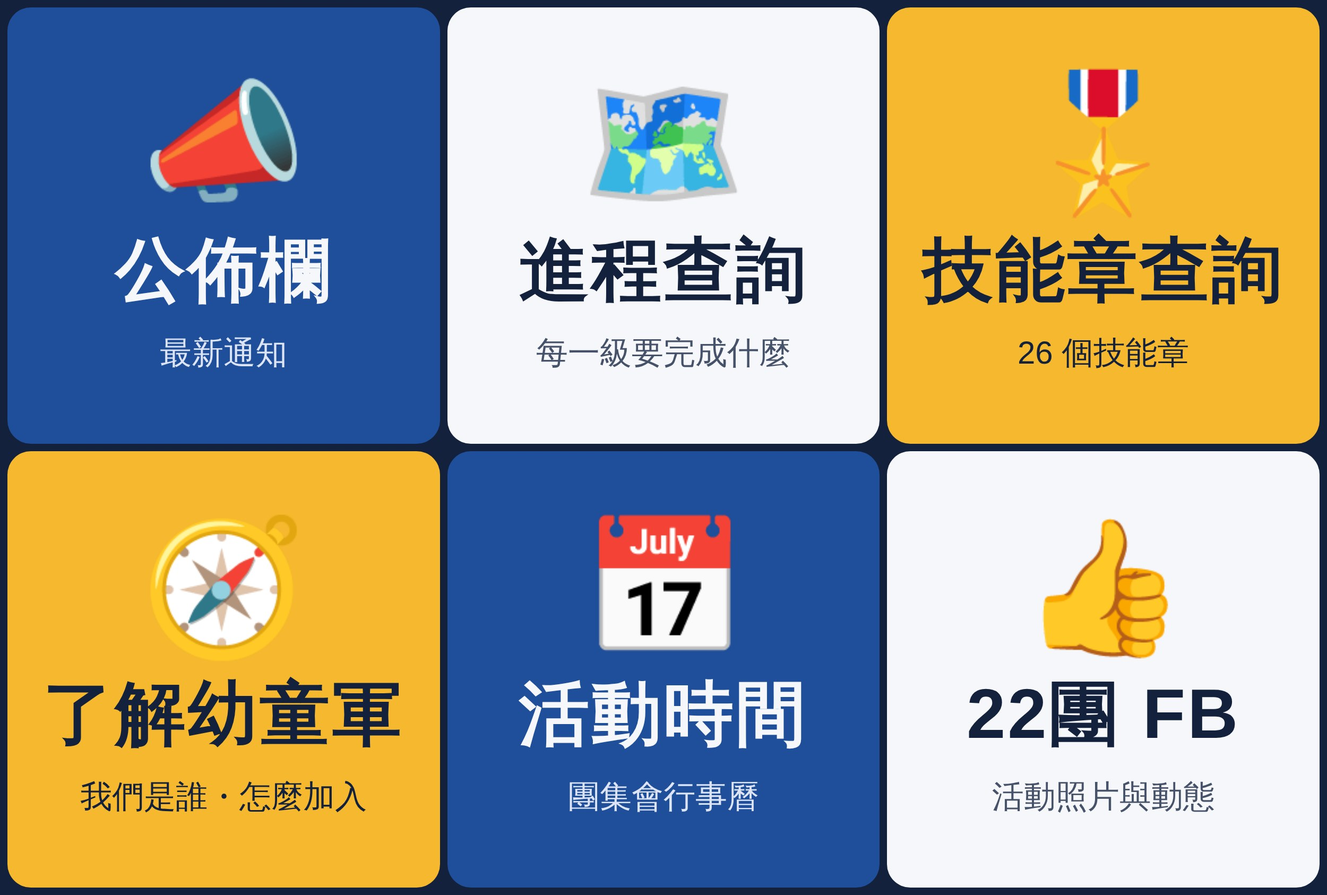
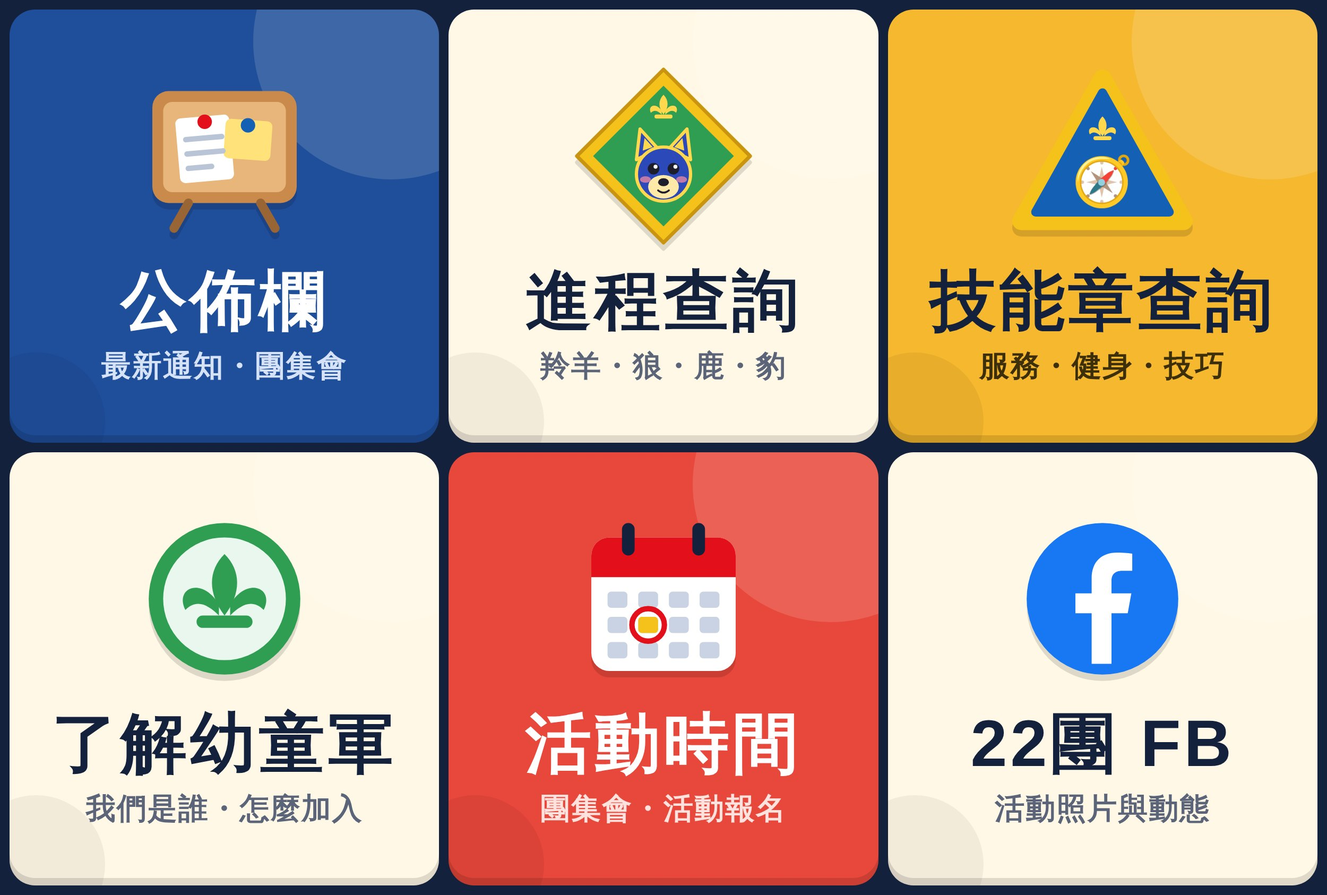
LINE 圖文選單改版與一鍵安裝（SPEC 附錄第 60 點）
- tools/richmenu.js 產生新圖 docs/line-richmenu.jpg（網站章圖＋自繪圖示）
- gas/RichMenu.js：試算表選單「📱 安裝 LINE 圖文選單」建立選單、上傳圖、設為預設、刪舊的
- webUrl_() 預設改回 GitHub 正式網站
- 文件：SPEC、SETUP 第 12 節、MANUAL、TESTING、CLAUDE、CHANGELOG

Claude-Session: https://claude.ai/code/session_019eugoUL2MKJMJs2XhhZPBG

diff --git a/tools/richmenu.js b/tools/richmenu.js
@@ -1,0 +1,71 @@
+/**
+ * 產生 LINE 圖文選單圖片 docs/line-richmenu.jpg（2500×1686，三欄兩列六格，SPEC 附錄第 49、60 點）
+ * 章的圖直接取自 web/index.html（BADGES、triBadge），和網站長得一樣。
+ * 用法：node tools/richmenu.js [輸出路徑]
+ * 六格的位置要和 gas/RichMenu.js 的 RICH_MENU_AREAS 一致（左上 → 右上 → 左下 → 右下）。
+ */
+const fs = require('fs');
+const path = require('path');
+const vm = require('vm');
+const { chromium } = require('playwright');
+
+const root = path.join(__dirname, '..');
+const out = process.argv[2] || path.join(root, 'docs/line-richmenu.jpg');
+
+// 從網站取出章的 SVG 產生器
+const web = fs.readFileSync(path.join(root, 'web/index.html'), 'utf8');
+const a = web.indexOf('const FLEUR');
+const b = web.indexOf('\n', web.indexOf('const triBadge'));
+const ctx = {};
+vm.createContext(ctx);
+vm.runInContext(web.slice(a, b).replace(/^const /gm, 'var ') , ctx);
+const svgSize = (s) => s.replace('<svg ', '<svg width="100%" height="100%" ');
+
+// 自己畫的圖示（100×100），不用表情符號，各平台看起來都一樣
+const ICON = {
+  notice: `<svg viewBox="0 0 100 100" width="100%" height="100%"><rect x="10" y="14" width="80" height="62" rx="9" fill="#C98A4B"/><rect x="16" y="20" width="68" height="50" rx="5" fill="#E8B57A"/>
+    <rect x="24" y="28" width="30" height="36" rx="3" fill="#fff" transform="rotate(-5 39 46)"/><rect x="50" y="30" width="26" height="22" rx="3" fill="#FFE27A" transform="rotate(4 63 41)"/>
+    <g stroke="#B9C4D6" stroke-width="3" stroke-linecap="round" transform="rotate(-5 39 46)"><path d="M29 40H49M29 48H49M29 56H42"/></g>
+    <circle cx="39" cy="31" r="4" fill="#E3101B" /><circle cx="63" cy="33" r="4" fill="#1360B5"/>
+    <path d="M30 76L22 90M70 76L78 90" stroke="#9A6534" stroke-width="5" stroke-linecap="round"/></svg>`,
+  scout: `<svg viewBox="0 0 100 100" width="100%" height="100%"><circle cx="50" cy="50" r="42" fill="#2F9E52"/><circle cx="50" cy="50" r="34" fill="#E9F7EE"/>
+    <g transform="translate(50 50) scale(3.1)" fill="#2F9E52"><path d="M0-8C3-5 3-1 0 3C-3-1-3-5 0-8Z"/><path d="M-1 1C-4-4-9-2-7 2C-5 0-3 1-1 3Z"/><path d="M1 1C4-4 9-2 7 2C5 0 3 1 1 3Z"/><rect x="-5" y="3" width="10" height="2.2" rx="1.1"/></g></svg>`,
+  calendar: `<svg viewBox="0 0 100 100" width="100%" height="100%"><rect x="10" y="16" width="80" height="74" rx="10" fill="#fff"/><path d="M10 26a10 10 0 0 1 10-10h60a10 10 0 0 1 10 10v12H10Z" fill="#E3101B"/>
+    <rect x="27" y="8" width="7" height="18" rx="3.5" fill="#14213D"/><rect x="66" y="8" width="7" height="18" rx="3.5" fill="#14213D"/>
+    <g fill="#C9D3E3">${[0, 1, 2, 3].map((c) => [0, 1, 2].map((r) => `<rect x="${19 + c * 17}" y="${46 + r * 14}" width="11" height="9" rx="2"/>`).join('')).join('')}</g>
+    <rect x="36" y="60" width="11" height="9" rx="2" fill="#F5C21B"/><circle cx="41.5" cy="64.5" r="9" fill="none" stroke="#E3101B" stroke-width="3"/></svg>`,
+  fb: `<svg viewBox="0 0 100 100" width="100%" height="100%"><circle cx="50" cy="50" r="42" fill="#1877F2"/><path d="M55 86V58h9l2-11H55v-7c0-3 1.5-5.5 6-5.5h5.5V25c-1-.2-4.5-.6-8.5-.6-8.4 0-14 5-14 14.3V47h-9v11h9v28Z" fill="#fff"/></svg>`,
+};
+
+const cells = [
+  { icon: ICON.notice, t: '公佈欄', s: '最新通知・團集會', bg: '#1F4E9A', fg: '#fff', sub: '#D6E2F7' },
+  { icon: svgSize(ctx.BADGES['狼']), t: '進程查詢', s: '羚羊・狼・鹿・豹', bg: '#FFF8E6', fg: '#14213D', sub: '#5B6478' },
+  { icon: svgSize(ctx.triBadge('#1360B5', '🧭')), t: '技能章查詢', s: '服務・健身・技巧', bg: '#F5B82E', fg: '#14213D', sub: '#3D2F0A' },
+  { icon: ICON.scout, t: '了解幼童軍', s: '我們是誰・怎麼加入', bg: '#FFF8E6', fg: '#14213D', sub: '#5B6478' },
+  { icon: ICON.calendar, t: '活動時間', s: '團集會・活動報名', bg: '#E8473B', fg: '#fff', sub: '#FFE1DD' },
+  { icon: ICON.fb, t: '22團 FB', s: '活動照片與動態', bg: '#FFF8E6', fg: '#14213D', sub: '#5B6478' },
+];
+
+const html = `<!doctype html><meta charset="utf-8"><style>
+*{box-sizing:border-box;margin:0}
+body{width:2500px;height:1686px;background:#14213D;font-family:"Noto Sans CJK TC","Noto Sans TC","PingFang TC",sans-serif;
+  display:grid;grid-template-columns:repeat(3,1fr);grid-template-rows:repeat(2,1fr);gap:18px;padding:18px}
+.c{position:relative;border-radius:48px;display:flex;flex-direction:column;align-items:center;justify-content:center;overflow:hidden;
+  box-shadow:inset 0 -14px 0 rgba(0,0,0,.12)}
+.c::before{content:"";position:absolute;width:520px;height:520px;border-radius:50%;background:rgba(255,255,255,.14);top:-200px;right:-170px}
+.c::after{content:"";position:absolute;width:260px;height:260px;border-radius:50%;background:rgba(0,0,0,.05);bottom:-90px;left:-80px}
+.ic{width:340px;height:340px;margin-bottom:34px;position:relative;z-index:1;filter:drop-shadow(0 12px 0 rgba(0,0,0,.13))}
+.t{font-size:124px;font-weight:900;letter-spacing:6px;line-height:1.1;position:relative;z-index:1}
+.s{font-size:56px;font-weight:700;margin-top:18px;position:relative;z-index:1;letter-spacing:2px}
+</style>${cells.map((c) => `<div class="c" style="background:${c.bg}"><div class="ic">${c.icon}</div><div class="t" style="color:${c.fg}">${c.t}</div><div class="s" style="color:${c.sub}">${c.s}</div></div>`).join('')}`;
+
+(async () => {
+  const br = await chromium.launch();
+  const p = await br.newPage({ viewport: { width: 2500, height: 1686 }, deviceScaleFactor: 1 });
+  await p.setContent(html);
+  await p.screenshot({ path: out, type: 'jpeg', quality: 86 });
+  await br.close();
+  const kb = Math.round(fs.statSync(out).size / 1024);
+  if (kb > 1000) throw new Error('圖片超過 LINE 上限 1MB：' + kb + 'KB');
+  console.log('已產生 ' + out + '（' + kb + 'KB）');
+})();

diff --git a/tests/admin.test.js b/tests/admin.test.js
@@ -740,7 +740,7 @@ test('LINE 關鍵字：可晉級／快達標只回已連結的管理員；進度
   say(env, '進度', 'Ustranger');
   assert.equal(replies().length, n + 1);
   assert.ok(!/測試小狼/.test(JSON.stringify(replies().at(-1).body)), '不含任何個資');
-  assert.match(replies().at(-1).body.messages[0].text, /script\.google\.com\/macros\/s\/TEST\/exec/, '沒設定 WEB_URL 時用這個專案自己的網址');
+  assert.match(replies().at(-1).body.messages[0].text, /aihong-lab\.github\.io\/22CUBSCOUT\//, '沒設定 WEB_URL 時用 GitHub 正式網站（附錄第 59 點）');
   say(env, '可晉級', 'Uleader');
   assert.match(replies().at(-1).body.messages[0].text, /測試小狼甲：環保技能章/);
   say(env, '快達標', 'Uleader');
@@ -1194,4 +1194,67 @@ test('startup：一次取得登入資料與第一個畫面（附錄第 58 點）
   assert.equal(p.prefetch.adminHome, undefined, '家長拿不到後台資料');
   assert.equal(p.prefetch.cubDetail.cub.cubId, cubId, '家長：第一個孩子的資料');
   assert.equal(call('bad-token', 'startup').code, 'SESSION_EXPIRED');
+});
+
+test('LINE 圖文選單一鍵安裝（附錄第 60 點）：建立、上傳圖片、設為預設、刪掉舊的', () => {
+  const { env, L, call } = world();
+  const rm = () => env.sent.filter((x) => /richmenu/.test(x.url));
+  // 沒有 token：不呼叫 LINE，跳出說明
+  env.ctx.menuInstallRichMenu();
+  assert.match(env.ui.alerts.at(-1), /LINE_MESSAGING_TOKEN/);
+  assert.equal(rm().length, 0);
+
+  env.props.LINE_MESSAGING_TOKEN = 'tok-test';
+  call(L, 'siteContentSave', { about: '我們是 22 團', fb: 'https://www.facebook.com/test22' });
+  let n = 0;
+  env.net.handler = (url, o) => {
+    if (/richmenu\/list$/.test(url)) return { body: { richmenus: [{ richMenuId: 'old-1', name: '22團選單' }, { richMenuId: 'other', name: '別人的選單' }] } };
+    if (/\/v2\/bot\/richmenu$/.test(url)) return { body: { richMenuId: 'new-' + (++n) } };
+    if (/line-richmenu\.jpg$/.test(url)) return { blob: { kind: 'jpg' } };
+    return { body: {} };
+  };
+  env.ctx.menuInstallRichMenu();
+  assert.match(env.ui.alerts.at(-1), /完成/);
+  const calls = rm();
+  const create = calls.find((x) => /\/v2\/bot\/richmenu$/.test(x.url));
+  assert.equal(create.method, 'post');
+  assert.equal(create.headers.Authorization, 'Bearer tok-test');
+  assert.deepEqual(create.body.size, { width: 2500, height: 1686 });
+  assert.equal(create.body.name, '22團選單');
+  const uris = create.body.areas.map((a) => a.action.uri);
+  assert.deepEqual(uris, ['https://aihong-lab.github.io/22CUBSCOUT/web/#notices', 'https://aihong-lab.github.io/22CUBSCOUT/web/#progress',
+    'https://aihong-lab.github.io/22CUBSCOUT/web/#badges', 'https://aihong-lab.github.io/22CUBSCOUT/web/#about',
+    'https://aihong-lab.github.io/22CUBSCOUT/web/#calendar', 'https://www.facebook.com/test22']);
+  // 六格剛好鋪滿整張圖、不重疊
+  const area = create.body.areas.reduce((t, a) => t + a.bounds.width * a.bounds.height, 0);
+  assert.equal(area, 2500 * 1686);
+  create.body.areas.forEach((a) => assert.ok(a.action.label.length <= 20));
+  const up = calls.find((x) => /api-data\.line\.me\/v2\/bot\/richmenu\/new-1\/content/.test(x.url));
+  assert.equal(up.contentType, 'image/jpeg');
+  assert.deepEqual(up.body, { kind: 'jpg' });
+  assert.ok(calls.some((x) => /user\/all\/richmenu\/new-1$/.test(x.url) && x.method === 'post'), '設為所有人的預設選單');
+  assert.ok(calls.some((x) => /richmenu\/old-1$/.test(x.url) && x.method === 'delete'), '刪掉舊的 22團選單');
+  assert.ok(!calls.some((x) => /richmenu\/other$/.test(x.url) && x.method === 'delete'), '別的選單不動');
+  assert.ok(!JSON.stringify(env.logs).includes('tok-test') && !env.ui.alerts.join('').includes('tok-test'), 'token 不出現在日誌或視窗');
+
+  // 沒填 FB：第六格改開「了解幼童軍」
+  call(L, 'siteContentSave', { about: '我們是 22 團', fb: '' });
+  env.ctx.menuInstallRichMenu();
+  const c2 = rm().filter((x) => /\/v2\/bot\/richmenu$/.test(x.url)).at(-1);
+  assert.equal(c2.body.areas[5].action.uri, 'https://aihong-lab.github.io/22CUBSCOUT/web/#about');
+
+  // LINE 回錯誤：說明失敗、不設預設、刪掉做到一半的選單
+  const before = rm().length;
+  env.net.handler = (url) => (/\/v2\/bot\/richmenu$/.test(url) ? { body: { richMenuId: 'bad' } } : /content$/.test(url) ? { code: 400, body: { message: 'image too large' } } : { body: { richmenus: [] } });
+  env.ctx.menuInstallRichMenu();
+  assert.match(env.ui.alerts.at(-1), /失敗[\s\S]*image too large/);
+  const after = rm().slice(before);
+  assert.ok(!after.some((x) => /user\/all/.test(x.url)));
+  assert.ok(after.some((x) => /richmenu\/bad$/.test(x.url) && x.method === 'delete'));
+
+  // 網頁訪客（GAS 模式）呼叫不到：沒有試算表視窗就直接失敗、不呼叫 LINE
+  env.ui.unavailable = true;
+  const b2 = rm().length;
+  assert.throws(() => env.ctx.menuInstallRichMenu());
+  assert.equal(rm().length, b2);
 });

diff --git a/gas/RichMenu.js b/gas/RichMenu.js
@@ -1,0 +1,72 @@
+/**
+ * LINE 圖文選單一鍵安裝（SPEC 附錄第 60 點）
+ * 試算表選單「🐺 幼童軍系統 → 📱 安裝 LINE 圖文選單」呼叫 menuInstallRichMenu()。
+ * 步驟：建立選單（六格連結）→ 上傳圖片（docs/line-richmenu.jpg，從 GitHub 網站抓）→ 設為所有人的預設 → 刪掉舊的「22團選單」。
+ * 圖片由 tools/richmenu.js 產生；六格位置要和那支程式一致（三欄兩列，左上 → 右上 → 左下 → 右下）。
+ * token 只放在 Script Properties（LINE_MESSAGING_TOKEN），不寫進日誌或視窗。
+ */
+var RICH_MENU_NAME = '22團選單';
+var RICH_MENU_SIZE = { width: 2500, height: 1686 };
+
+/** 六格：[按鈕名稱, 網站頁面]；第六格 FB 用「網站內容」的 FB 網址，沒填就開「了解幼童軍」 */
+var RICH_MENU_CELLS = [['公佈欄', 'notices'], ['進程查詢', 'progress'], ['技能章查詢', 'badges'], ['了解幼童軍', 'about'], ['活動時間', 'calendar'], ['22團 FB', 'fb']];
+
+/** 六格的範圍與連結（純計算，方便測試） */
+function richMenuAreas_(root, fb) {
+  var W = RICH_MENU_SIZE.width, H = RICH_MENU_SIZE.height;
+  var xs = [0, Math.round(W / 3), Math.round(W * 2 / 3), W], ys = [0, Math.round(H / 2), H];
+  return RICH_MENU_CELLS.map(function (c, i) {
+    var col = i % 3, row = Math.floor(i / 3);
+    var uri = c[1] === 'fb' ? (/^https:\/\/((www|m)\.)?(facebook\.com|fb\.com|fb\.me)\//.test(fb || '') ? fb : root + 'web/#about') : root + 'web/#' + c[1];
+    return { bounds: { x: xs[col], y: ys[row], width: xs[col + 1] - xs[col], height: ys[row + 1] - ys[row] },
+      action: { type: 'uri', label: c[0], uri: uri } };
+  });
+}
+
+/** 呼叫 LINE API；不是 200 就丟出含 LINE 說明的錯誤（不含 token） */
+function lineApi_(token, method, url, payload, contentType) {
+  var o = { method: method, headers: { Authorization: 'Bearer ' + token }, muteHttpExceptions: true };
+  if (payload !== undefined) { o.payload = payload; o.contentType = contentType || 'application/json'; }
+  var res = UrlFetchApp.fetch(url, o);
+  var code = res.getResponseCode(), text = res.getContentText() || '{}', json = {};
+  try { json = JSON.parse(text); } catch (e) { json = {}; }
+  if (code !== 200) throw new Error('LINE 回應 ' + code + (json.message ? '：' + json.message : ''));
+  return json;
+}
+
+/** 安裝圖文選單，回傳新選單ID；失敗時刪掉做到一半的選單再丟出錯誤 */
+function installRichMenu_(token) {
+  var root = webUrl_();
+  var fb = siteValues_().fb;
+  var old = (lineApi_(token, 'get', 'https://api.line.me/v2/bot/richmenu/list').richmenus || [])
+    .filter(function (m) { return m.name === RICH_MENU_NAME; }).map(function (m) { return m.richMenuId; });
+  var id = lineApi_(token, 'post', 'https://api.line.me/v2/bot/richmenu', JSON.stringify({
+    size: RICH_MENU_SIZE, selected: true, name: RICH_MENU_NAME, chatBarText: '選單', areas: richMenuAreas_(root, fb)
+  })).richMenuId;
+  try {
+    var img = UrlFetchApp.fetch(root + 'docs/line-richmenu.jpg').getBlob();
+    lineApi_(token, 'post', 'https://api-data.line.me/v2/bot/richmenu/' + id + '/content', img, 'image/jpeg');
+    lineApi_(token, 'post', 'https://api.line.me/v2/bot/user/all/richmenu/' + id);
+  } catch (e) {
+    try { lineApi_(token, 'delete', 'https://api.line.me/v2/bot/richmenu/' + id); } catch (e2) { /* 刪不掉就算了 */ }
+    throw e;
+  }
+  old.forEach(function (o) { try { lineApi_(token, 'delete', 'https://api.line.me/v2/bot/richmenu/' + o); } catch (e) { /* 舊的刪不掉不影響 */ } });
+  logOp_('試算表選單', '安裝 LINE 圖文選單', RICH_MENU_NAME, old.length ? '舊選單 ' + old.length + ' 個' : '', '新選單');
+  return id;
+}
+
+/** 試算表選單：安裝 LINE 圖文選單（只有能編輯試算表的人看得到；網頁訪客呼叫時 getUi 會直接失敗） */
+function menuInstallRichMenu() {
+  var ui = SpreadsheetApp.getUi();
+  var token = PropertiesService.getScriptProperties().getProperty('LINE_MESSAGING_TOKEN');
+  if (!token) { ui.alert('安裝 LINE 圖文選單', '還沒有設定 LINE_MESSAGING_TOKEN：請到 Apps Script「專案設定 → 指令碼屬性」填入官方帳號的 Channel access token。'); return; }
+  try {
+    installRichMenu_(token);
+    ui.alert('安裝 LINE 圖文選單', '完成！用手機打開官方帳號聊天室就會看到新的六格選單（可能要關掉聊天室再打開）。\n\n' +
+      '如果 LINE 官方帳號管理後台（manager.line.biz）也有設定圖文選單，這裡安裝的會優先顯示。\n' +
+      '要換圖或換連結：改好後再按一次這個選單就會換新。');
+  } catch (e) {
+    ui.alert('安裝 LINE 圖文選單', '安裝失敗：' + e.message + '\n\n請確認 token 正確、網站（GitHub）上有 docs/line-richmenu.jpg。');
+  }
+}

diff --git a/tests/gas-mock.js b/tests/gas-mock.js
@@ -158,7 +158,16 @@ function loadGas(opts = {}) {
       },
       DigestAlgorithm: { SHA_256: 'SHA_256' }, Charset: { UTF_8: 'UTF_8' },
     },
-    UrlFetchApp: { fetch: (url, o) => { sent.push({ url, body: JSON.parse(o.payload) }); return { getResponseCode: () => net.code }; } },
+    // net.handler(url, o) 可自訂回應（回傳 { code, body, blob }）；沒有就回 net.code。payload 是圖片（非字串）時 body 放原物件
+    UrlFetchApp: { fetch: (url, o) => {
+      o = o || {};
+      const body = typeof o.payload === 'string' ? JSON.parse(o.payload) : o.payload;
+      sent.push({ url, method: (o.method || 'get').toLowerCase(), headers: o.headers || {}, contentType: o.contentType, body });
+      const r = (net.handler && net.handler(url, o)) || {};
+      const code = r.code === undefined ? net.code : r.code;
+      return { getResponseCode: () => code, getContentText: () => (r.body === undefined ? '{}' : typeof r.body === 'string' ? r.body : JSON.stringify(r.body)),
+        getBlob: () => r.blob || { kind: 'blob', url } };
+    } },
     CacheService: { getScriptCache: () => ({
       get: (k) => (cache[k] && cache[k].exp > clock ? cache[k].v : null),
       // 分頁暫存（SHEET_）預設關閉：很多測試直接改試算表內容，真實環境由 onEdit 清掉暫存，模擬環境沒有 onEdit。要測暫存時設 env.flags.sheetCache = true

diff --git a/gas/Notify.js b/gas/Notify.js
@@ -34,11 +34,10 @@ function scanCubs_(ctx, cubs) {
 }
 
 function unitLabel_(p) { return p.category === Logic.CATEGORY.PROGRESS ? (p.unit === Logic.NEWBIE ? p.unit : p.unit + '級') : p.unit + '技能章'; }
-/** 網站網址：指令碼屬性 WEB_URL → 這個專案的網頁應用程式網址（網頁放在 GAS 時就是它）→ 舊的 GitHub 網址 */
+/** 網站網址（結尾有 /）：指令碼屬性 WEB_URL → GitHub 正式網站（SPEC 附錄第 59 點：正式網站是 GitHub Pages） */
 function webUrl_() {
   var p = PropertiesService.getScriptProperties().getProperty('WEB_URL');
-  if (p) return p;
-  try { var u = ScriptApp.getService().getUrl(); if (u) return u; } catch (e) { /* 取不到就用預設 */ }
+  if (p) return /\/$/.test(p) ? p : p + '/';
   return DEFAULT_WEB_URL;
 }
 function linkedLineIds_() { return loadAdmins_().map(function (a) { return a.lineUserId; }).filter(String); }

diff --git a/tests/backend.test.js b/tests/backend.test.js
@@ -304,7 +304,7 @@ test('試算表選單：只有分頁顯示切換，沒有邀請碼（SPEC 附錄
   env.ctx.onOpen();
   assert.equal(env.ui.menus[0].title, '🐺 幼童軍系統');
   assert.ok(env.ui.menus[0].items.every(([, fn]) => typeof env.ctx[fn] === 'function' && !fn.endsWith('_')), '選單函式存在且非私有');
-  assert.deepEqual(env.ui.menus[0].items.map(([t]) => t), ['🔑 團長預設帳號（admin）', '把帳號設為團長', '顯示全部分頁（查紀錄用）', '只顯示需要編輯的分頁']);
+  assert.deepEqual(env.ui.menus[0].items.map(([t]) => t), ['🔑 團長預設帳號（admin）', '把帳號設為團長', '📱 安裝 LINE 圖文選單', '顯示全部分頁（查紀錄用）', '只顯示需要編輯的分頁']);
   assert.equal(typeof env.ctx.menuInviteAssistant, 'undefined');
 });
 

diff --git a/tools/build.js b/tools/build.js
@@ -11,7 +11,7 @@ const root = path.join(__dirname, '..');
 const read = (p) => fs.readFileSync(path.join(root, p), 'utf8');
 
 // GAS 載入順序（Logic 最先，Setup 最後）
-const ORDER = ['Logic.js', 'Config.js', 'SeedData.js', 'Db.js', 'Auth.js', 'Api.js', 'Menu.js', 'AdminApi.js', 'TeamApi.js', 'EventApi.js', 'ItemsAdmin.js', 'Notify.js', 'Backup.js', 'Webhook.js', 'Setup.js'];
+const ORDER = ['Logic.js', 'Config.js', 'SeedData.js', 'Db.js', 'Auth.js', 'Api.js', 'Menu.js', 'AdminApi.js', 'TeamApi.js', 'EventApi.js', 'ItemsAdmin.js', 'Notify.js', 'Backup.js', 'Webhook.js', 'RichMenu.js', 'Setup.js'];
 
 function buildSeedData() {
   const itemsCsv = read('data/items.csv');

diff --git a/gas/Menu.js b/gas/Menu.js
@@ -14,6 +14,8 @@ function onOpen() {
     .addItem('🔑 團長預設帳號（admin）', 'menuDefaultAdmin')
     .addItem('把帳號設為團長', 'menuSetLeader')
     .addSeparator()
+    .addItem('📱 安裝 LINE 圖文選單', 'menuInstallRichMenu')
+    .addSeparator()
     .addItem('顯示全部分頁（查紀錄用）', 'menuShowAllSheets')
     .addItem('只顯示需要編輯的分頁', 'menuHideSystemSheets')
     .addToUi();

diff --git a/CLAUDE.md b/CLAUDE.md
@@ -35,16 +35,17 @@
 - 活動報名對象與資料保留（SPEC 附錄第 52 點）：`canRegisterEvents_`（管理員或綁定在團／體驗孩子）、`eventList.eligible`；`purgeEndedEvents_`（`dailyJob` 呼叫；先 `syncEventSheet_` 成功才刪報名並寫「封存時間」），封存後 `eventSave`／`syncEventSheet_` 拒絕。
 - 章的內建圖與進程顯示範圍（SPEC 附錄第 53 點）：前端 `BADGES`（四級菱形 SVG）、`triBadge`（技能章三角形，顏色 `BADGE_COLOR` 依分類）、`iconOf`（有內建圖時加 `.art`）、`lvIcon`、`levelWindow(currentLevel)`（家長闖關、家長首頁、已登入家長的公開進程頁）。上傳的章圖仍優先（`applyUnitImages`）。
 - 網頁由 GAS 提供（SPEC 附錄第 56 點）：`npm run build` 另產生 `dist/Index.html`（＝`web/index.html`）；`doGet` 用 `HtmlService.createHtmlOutputFromFile('Index')`；前端 `IN_GAS` 時走 `google.script.run.apiFromPage`、`gasHash`／`google.script.url.getLocation`（`?p=` 或 `#`）、`gasBase`（`ping.webUrl`）。**公開函式（非底線結尾）訪客都呼叫得到**：`setup`→`setupCore_`、`dailyJob`→`runDaily_`、`weeklyBackup`→`runWeekly_`（`throttle_`），測試一律呼叫內部函式；`tests/web/gas-mode.js` 是 GAS 模式冒煙測試。
-- 鎖在 GAS 與加速（SPEC 附錄第 57 點）：設定「允許外部網頁連線」＝否時 `doPost` API 回 `ERR.MOVED`（前端 `showMoved`）；`doGet` 用 `bootData_()` 把公開資料內嵌進 `<script id="boot"></script>`（前端 `window.__BOOT`）；`cachedPublic_`／`clearPublicCache_`（`registerAdmin_` 每次動作後清）；`webUrl_()` 預設用專案自己的網址。`npm run test:web` 會跑三段：一般、`E2E_GAS=1`、`gas-mode.js`。
+- 鎖在 GAS 與加速（SPEC 附錄第 57 點）：設定「允許外部網頁連線」＝否時 `doPost` API 回 `ERR.MOVED`（前端 `showMoved`）；`doGet` 用 `bootData_()` 把公開資料內嵌進 `<script id="boot"></script>`（前端 `window.__BOOT`）；`cachedPublic_`／`clearPublicCache_`（`registerAdmin_` 每次動作後清）；`webUrl_()` 預設改回 GitHub（附錄第 60 點）。`npm run test:web` 會跑三段：一般、`E2E_GAS=1`、`gas-mode.js`。
 - 加速（SPEC 附錄第 58 點）：`ss_()` 快取試算表（`SS_CACHE_`／`SHEET_CACHE_`）；`readAll_` 對項目總表、級別與章說明、進程細項、設定使用 CacheService（`sheetCacheKey_`，`invalidate_` 與 `onEdit`／`clearAllCaches_` 清除；模擬環境預設關閉，`env.flags.sheetCache`）；`startup` API（me＋第一個畫面，前端 `state.prefetch`）。
 - 正式網站維持 GitHub Pages（SPEC 附錄第 59 點）：`web/index.html` 有 CSP meta（connect-src 只允許 script.google.com／script.googleusercontent.com；建置 `dist/Index.html` 時拿掉這行）、`referrer` no-referrer、被框住時不顯示內容（`!IN_GAS && window.top !== window.self`）。**之後網頁若要載入任何外部資源，必須同時更新 CSP**，e2e 會把 CSP 阻擋當成錯誤。「允許外部網頁連線」必須維持「是」。
-- **目前狀態**（2026-11-16）：階段 0A～5 與附錄第 45～51 點的程式都已完成並通過模擬測試（`npm test` 144 項、`npm run test:web` 全過）；GAS 版在團長的實際環境進不去，**正式網站維持 GitHub Pages**（附錄第 59 點）；GAS 版程式保留但不使用。**尚未在真實環境驗證**：LINE 推播（Flex、multicast）與圖文選單、每日／每週排程、活動存檔試算表（DriveApp 建檔與搬移）、章圖上傳的縮圖效果。第二期（ROADMAP）未做。團長回報的問題優先處理。
+- LINE 圖文選單改版（SPEC 附錄第 60 點）：`tools/richmenu.js` 產生 `docs/line-richmenu.jpg`（章圖取自 web/index.html 的 `BADGES`／`triBadge`）；試算表選單「📱 安裝 LINE 圖文選單」（`gas/RichMenu.js`，建立→上傳圖→設預設→刪舊的同名選單，失敗會清掉半成品）；`webUrl_()` 預設改回 GitHub（WEB_URL → `DEFAULT_WEB_URL`）。
+- **目前狀態**（2026-11-16）：階段 0A～5 與附錄第 45～51 點的程式都已完成並通過模擬測試（`npm test` 145 項、`npm run test:web` 全過）；GAS 版在團長的實際環境進不去，**正式網站維持 GitHub Pages**（附錄第 59 點）；GAS 版程式保留但不使用。**尚未在真實環境驗證**：LINE 推播（Flex、multicast）與圖文選單、每日／每週排程、活動存檔試算表（DriveApp 建檔與搬移）、章圖上傳的縮圖效果。第二期（ROADMAP）未做。團長回報的問題優先處理。
 
 ## 架構
 - 前端：`web/index.html`，原生 HTML/CSS/JS，無框架、無建置工具，可部署到 GitHub Pages（repo 為 Public），也可以直接由 GAS 提供（`dist/Index.html`，附錄第 56 點）。查詢端與後台同一頁，依身分切換。
 - 後端：Google Apps Script Web App（`gas/`，用 clasp 管理），資料庫是 Google 試算表。
 - 登入：家長、服務員、團長都用帳號密碼。註冊改為自己選身分送出申請、團長審核（SPEC 附錄第 31 點）；綁定碼仍可直接註冊；邀請碼已拿掉，只剩 setup() 的第一位團長邀請碼（附錄第 33 點）。密碼加鹽多次雜湊；登入後發隨機憑證，前端存瀏覽器，後端只存雜湊。忘記密碼由團長產生臨時碼。
-- LINE：只用 Messaging API channel（官方帳號），僅通知「已連結 LINE」的管理員與管理員關鍵字查詢。沒有 LINE Login、沒有 LIFF、不推播給家長。圖文選單是給所有人的六個網頁連結（附錄第 49 點），不經過後端。
+- LINE：只用 Messaging API channel（官方帳號），僅通知「已連結 LINE」的管理員與管理員關鍵字查詢。沒有 LINE Login、沒有 LIFF、不推播給家長。圖文選單是給所有人的六個網頁連結（附錄第 49 點），按鈕不經過後端；由試算表選單一鍵安裝（附錄第 60 點）。
 - 前端呼叫 GAS：`fetch` POST，`Content-Type: text/plain`，body 放 JSON（避免 CORS 預檢）。
 - `doPost` 同時接前端 API 與 LINE webhook：網址帶 `key=` 參數且符合 Script Properties 的 webhook 密鑰 → 當 webhook；否則當前端 API（body 帶登入憑證）。
 - 憑證過期或無效時後端回明確錯誤代碼（預定 `SESSION_EXPIRED`），前端清除憑證回登入畫面，登入後回到原畫面。
@@ -129,13 +130,14 @@
 | `Auth.js` | 亂數（取自 UUID）、HMAC 雜湊、失敗紀錄與鎖定、登入憑證 |
 | `Api.js` | `doGet`／`doPost`、動作分派（`PUBLIC_ACTIONS`、`AUTHED_ACTIONS`）、家長端 API、`buildCubView_` |
 | `Webhook.js` | LINE webhook（密鑰與格式檢查）、管理員 LINE 配對碼、`lineReply_` |
+| `RichMenu.js` | LINE 圖文選單一鍵安裝（附錄第 60 點）：`richMenuAreas_`、`installRichMenu_`、試算表選單 `menuInstallRichMenu`；圖片由 `tools/richmenu.js` 產生 |
 | `AdminApi.js` | 後台 API（`registerAdmin_(名稱, 權限, 函式)` 統一做權限檢查）：首頁、小狼與綁定碼、簽核與撤銷、頒章／修改／撤銷／補登、管理員（邀請碼只剩列出與作廢）、帳號管理、行事曆與點名、年度出席、個資處理、LINE 配對 |
 | `TeamApi.js` | 小隊輔、正副小隊長與職務紀錄、公告欄（含公開 API `notices`）、批次匯入名單、家長線上請假（SPEC 附錄第 45 點） |
 | `EventApi.js` | 活動報名與繳費紀錄、章的圖片（SPEC 附錄第 50 點） |
 | `ItemsAdmin.js` | 項目管理 API（SPEC 7.7，4B）：樹狀資料、改文字、新增（自動ID、影響預覽）、停用／啟用、排序、大項改名、技能章新增／改名、說明、本團細項、匯出、重新載入；改完清公開查詢快取 |
 | `Notify.js` | LINE 主動通知（階段 5）：達標推播與去重、再提醒、關鍵字回覆、每日排程 |
 | `Backup.js` | 備份與輪替、權限檢查、`weeklyBackup`／`installBackupTrigger`、`ensureBackup_`（setup 自動建立資料夾與排程） |
-| `Menu.js` | 試算表選單「🐺 幼童軍系統」（`onOpen`）：團長預設帳號 admin（`ensureDefaultAdmin_`）、把帳號設為團長（`setLeaderByUsername_`）、顯示全部分頁／只顯示需要編輯的分頁；選單呼叫的函式名稱不可底線結尾 |
+| `Menu.js` | 試算表選單「🐺 幼童軍系統」（`onOpen`）：團長預設帳號 admin（`ensureDefaultAdmin_`）、把帳號設為團長（`setLeaderByUsername_`）、安裝 LINE 圖文選單、顯示全部分頁／只顯示需要編輯的分頁；選單呼叫的函式名稱不可底線結尾 |
 | `Setup.js` | `setup()`、`ensureNewbieLevel_()`（補上剛入團，只做一次）、`organizeSheets_(hide)`（依 `EDITABLE_SHEETS` 排序並隱藏系統分頁，只改顯示狀態）、`cleanup0B()` |
 
 - `npm run build`：產生 `gas/SeedData.js` 與合併檔 `dist/Code.gs`（團長可整份貼到 Apps Script，不需 clasp）。`npm test` 會先自動 build。

diff --git a/docs/SPEC.md b/docs/SPEC.md
@@ -783,3 +783,9 @@ docs/TESTING.md（手動）至少涵蓋：
    - **網頁的資安防護**（GitHub Pages 無法設定伺服器標頭，改用網頁本身）：內容安全政策（CSP）只允許連到 Google 的後端（script.google.com／script.googleusercontent.com）、不載入任何外部程式或圖片、表單不能送到別的網站；`referrer` 設為不送出；被別的網站放進框框時不顯示內容（防點擊劫持）。即使網頁有漏洞，登入憑證也無法被送到其他網站。
    - **程式庫公開不等於資料公開**：GitHub 上只有程式與文件；所有孩子與家長的資料都在團長的 Google 試算表，每次存取都經過後端的登入與權限檢查。2026-11-17 檢查過程式庫與全部歷史紀錄：沒有孩子的真實姓名、沒有密碼或 token（只有網站必須的後端網址）。
    - 程式庫若改成私人，GitHub Pages 需要付費方案；目前維持公開。
+60. LINE 圖文選單改版與一鍵安裝（2026-11-18 團長：「六格已經決定好了，要用程式碼把它變漂亮」）：
+   - 六格不變（三欄兩列，左上到右下）：公佈欄、進程查詢、技能章查詢、了解幼童軍、活動時間、22團 FB；全部是開網頁，連到 GitHub 正式網站 `web/#notices`、`#progress`、`#badges`、`#about`、`#calendar`；FB 用「網站內容」的 FB 網址，沒填時開 `#about`。
+   - 圖片 `docs/line-richmenu.jpg` 由 `tools/richmenu.js` 產生（2500×1686、小於 1MB）：進程查詢用網站的狼級菱形章、技能章查詢用技能章三角形，其他四格是自己畫的圖示（不用表情符號，各手機看起來一樣）。
+   - 試算表選單新增「📱 安裝 LINE 圖文選單」（`gas/RichMenu.js`）：用 Messaging API 建立選單 → 上傳圖片（從 GitHub 網站抓）→ 設為所有人的預設選單 → 刪掉舊的「22團選單」；中途失敗會刪掉做到一半的選單、不換掉原本的。改圖或改 FB 網址後再按一次即可。token 只從 Script Properties 讀，不出現在日誌或視窗。
+   - 用 API 設定的預設選單會優先於 LINE 官方帳號管理後台設定的選單；手動設定的步驟保留在 SETUP 第 12 節當備案。
+   - 順帶修正：`webUrl_()`（通知按鈕、關鍵字「進度」、臨時碼說明）預設改回 GitHub 正式網站，和第 59 點一致。

diff --git a/docs/TESTING.md b/docs/TESTING.md
@@ -159,7 +159,7 @@
 - [ ] 試算表設成「知道連結的任何人」時，檢查權限出現紅色警告
 
 ## 尚未實作
-第二期功能（見 ROADMAP.md）。LINE 圖文選單需在 LINE 後台手動設定（SETUP 第 12 節）。
+第二期功能（見 ROADMAP.md）。LINE 圖文選單用試算表選單一鍵安裝（SETUP 第 12 節）。
 
 ## 名單直接編輯
 - [ ] 「🐺 小狼 → ✏ 直接編輯」改兩位小狼的小隊 → 儲存 → 點名頁的小隊篩選跟著變。
@@ -187,7 +187,7 @@
 - [ ] 沒登入打開網站：首頁有公佈欄、活動時間、了解幼童軍三個入口與月曆；有集會的日子有上色，可以切換月份。
 - [ ] 後台「系統設定 → 網站內容」改「了解幼童軍」→ 儲存 → 沒登入的「了解幼童軍」頁看到新內容。
 - [ ] FB 網址填一個不是 Facebook 的網址 → 被拒絕；填粉絲專頁網址 → 首頁出現「22 團 FB」。
-- [ ] ⚠ LINE 後台建立圖文選單（SETUP 第 12 節）→ 手機上六個按鈕各按一次，都開到對的頁面。
+- [ ] ⚠ 試算表選單「📱 安裝 LINE 圖文選單」（SETUP 第 12 節）→ 看到「完成」→ 手機上六個按鈕各按一次，都開到對的頁面；改 FB 網址後再裝一次，第六格跟著換。
 
 ## 活動報名、繳費紀錄與章的圖片（附錄第 50 點；更新後端並重跑 setup 後可測）
 - [ ] 重跑 `setup` 後多三個隱藏分頁「活動」「活動報名」「章圖」。
